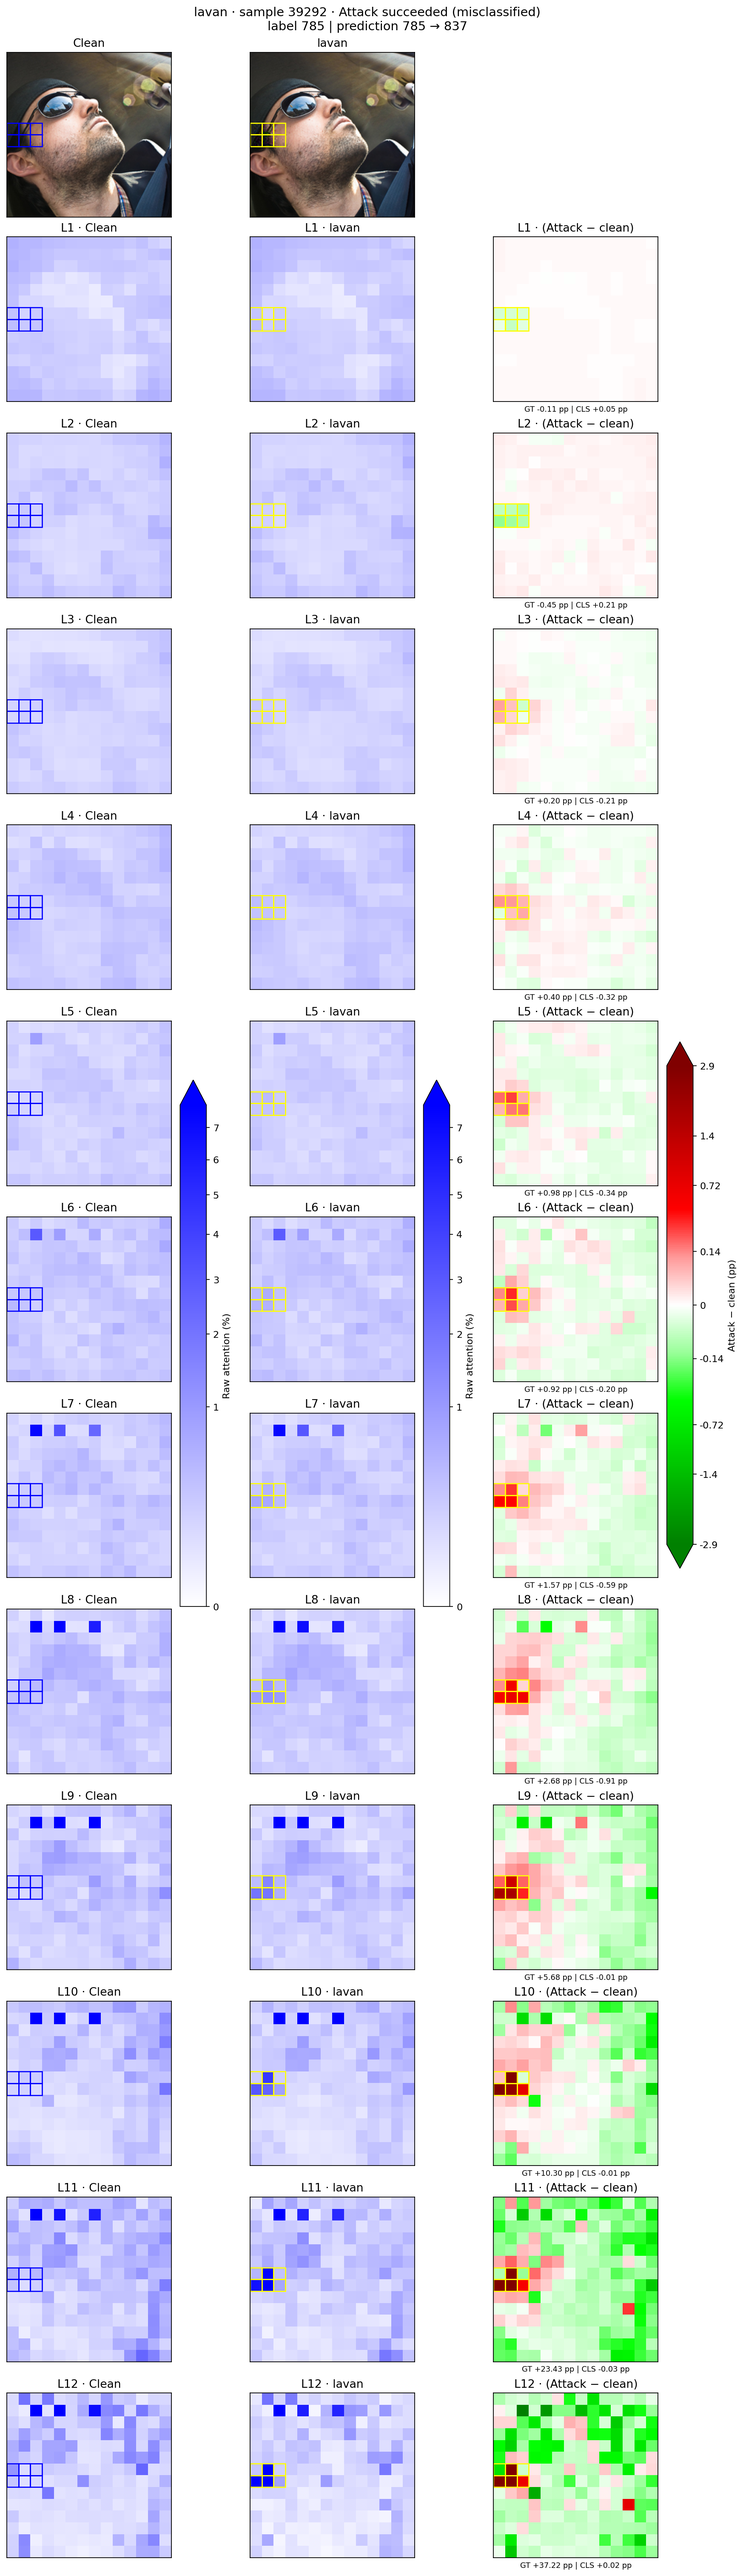
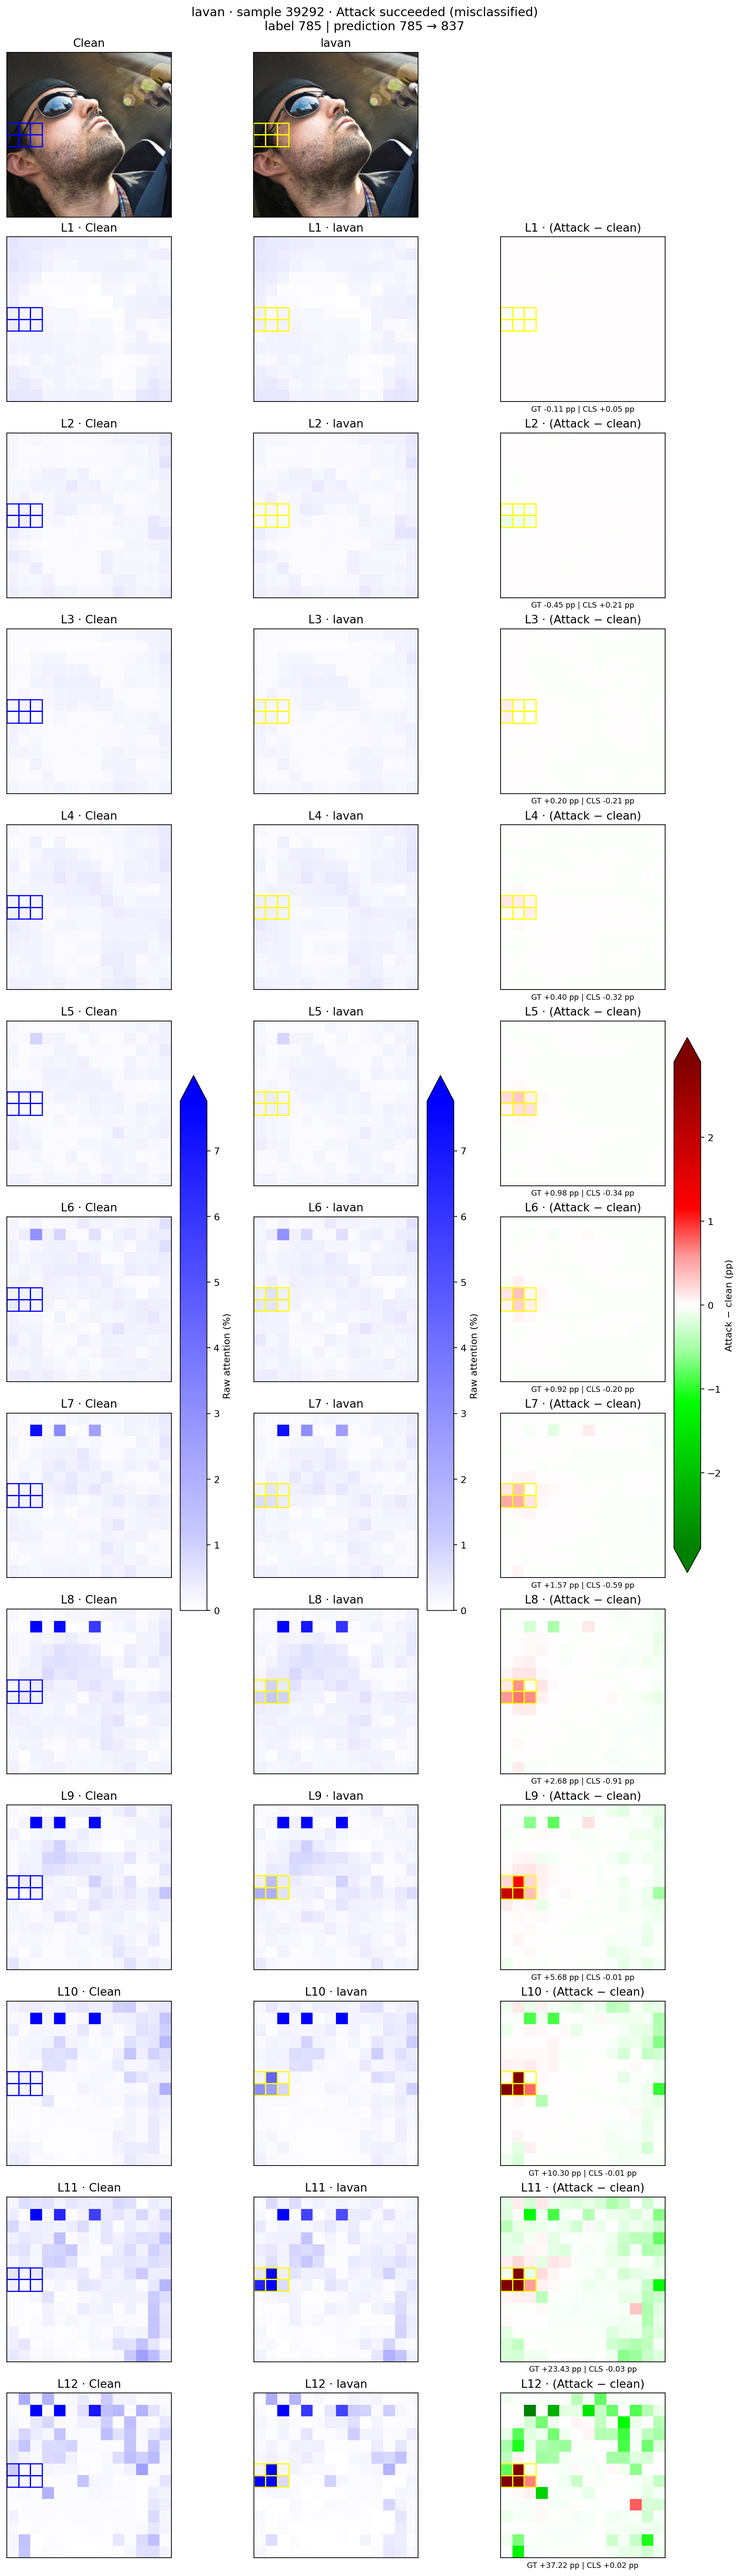
Linear colorbars with uniform ticks; small-value visibility moved into the color ramps

diff --git a/01_patch_attack_detector/experiments/characterization/02_compare_attention_success_failure.py b/01_patch_attack_detector/experiments/characterization/02_compare_attention_success_failure.py
@@ -15,7 +15,7 @@ import numpy as np
 import matplotlib
 matplotlib.use('Agg')
 import matplotlib.pyplot as plt
-from matplotlib.colors import LinearSegmentedColormap, Normalize, PowerNorm
+from matplotlib.colors import LinearSegmentedColormap, Normalize
 
 HERE = Path(__file__).resolve().parent
 sys.path.insert(0, str(HERE.parents[1] / 'ground_truth'))   # for `import draw_boxes`
@@ -30,29 +30,13 @@ OUTCOMES = {'attack_success': (1, 'Attack succeeded (misclassified)'),
 OUTCOME_COLORS = {'attack_success': '#d03b3b', 'attack_fail': '#0ca30c'}
 # 양 끝이 검정으로 가면 원본/공격/차이가 다 어두워져서 구분이 안 된다 -- 끝 색을 원색으로 둔다.
 # raw attention: 흰색 -> 순수 파랑. 차이: 감소=연초록->밝은 초록->진한 초록(#008000), 0=흰색, 증가(attention이 더 몰림)=순수 빨강.
-SEQUENTIAL = LinearSegmentedColormap.from_list('white_blue', ['#ffffff', '#0000ff'])
+SEQUENTIAL = LinearSegmentedColormap.from_list('white_blue', [(0.0, '#ffffff'), (0.15, '#c8c8ff'), (1.0, '#0000ff')])
 # 0은 흰색. 흰색에서 바로 연한 초록/연한 빨강으로 건너뛴 뒤 원색으로 진해진다 -- 선형으로
-# 흰색->원색을 이으면 작은 변화가 흰색과 구분이 안 된다.
+# 흰색->원색을 이으면 작은 변화가 흰색과 구분이 안 된다. 값 스케일은 선형(눈금 간격 균일)으로 두고
+# 작은 값을 보이게 하는 건 색 램프 쪽에서 한다.
 DIVERGING = LinearSegmentedColormap.from_list('green_white_red', [
     (0.0, '#008000'), (0.3, '#00ff00'), (0.4, '#99ff99'), (0.5, '#ffffff'), (0.6, '#ff9999'), (0.7, '#ff0000'), (1.0, '#800000')])
 
-
-class SignedPowerNorm(Normalize):
-    """0을 중심으로 부호를 유지한 채 |값|^gamma로 펼친다(gamma<1이면 작은 변화도 흰색에서
-    확실히 떨어진다). 컬러바가 눈금을 되돌릴 수 있도록 inverse를 제공한다."""
-
-    def __init__(self, vmax, gamma=.5):
-        super().__init__(vmin=-vmax, vmax=vmax, clip=True)
-        self.gamma = gamma
-
-    def __call__(self, value, clip=None):
-        v = np.ma.asarray(value, dtype=float)
-        scaled = np.sign(v) * (np.clip(np.abs(v) / self.vmax, 0, 1) ** self.gamma)
-        return np.ma.masked_array(.5 + .5 * scaled, mask=np.ma.getmask(v))
-
-    def inverse(self, value):
-        s = 2 * np.asarray(value, dtype=float) - 1
-        return np.sign(s) * (np.abs(s) ** (1 / self.gamma)) * self.vmax
 METRICS = {'tv': 'Total variation', 'gt_delta': 'Attention change in GT region (pp)'}
 
 
@@ -202,8 +186,8 @@ def draw_maps(data, manifest, attack, sample_i, metrics, layers, scales, status_
     axes[0, 2].set_axis_off()
 
     mass_max, delta_max = scales
-    mass_norm = PowerNorm(gamma=.45, vmin=0, vmax=mass_max)
-    delta_norm = SignedPowerNorm(delta_max)
+    mass_norm = Normalize(vmin=0, vmax=mass_max)
+    delta_norm = Normalize(vmin=-delta_max, vmax=delta_max)
     column_image = {}
     for row, layer_i in enumerate(layers, 1):
         panels = [('clean', 'Clean'), ('attacked', attack), ('delta', '(Attack − clean)')]
@@ -227,14 +211,8 @@ def draw_maps(data, manifest, attack, sample_i, metrics, layers, scales, status_
     for column, label, extend in [(0, 'Raw attention (%)', 'max'),
                                    (1, 'Raw attention (%)', 'max'),
                                    (2, 'Attack − clean (pp)', 'both')]:
-        bar = figure.colorbar(column_image[column], ax=[axes[r, column] for r in range(n_rows)],
-                              shrink=.85, extend=extend, label=label)
-        if column == 2:
-            # 눈금을 정수(1,2,3...)로 두면 |값|^0.5 스케일 때문에 양 끝 눈금이 겹친다 -- 상한의
-            # 비율로 잡으면 스케일 위에서 간격이 고르다.
-            ticks = np.array([-1, -.5, -.25, -.05, 0, .05, .25, .5, 1]) * delta_max
-            bar.set_ticks(ticks)
-            bar.set_ticklabels([f'{v:.2g}' for v in ticks])
+        figure.colorbar(column_image[column], ax=[axes[r, column] for r in range(n_rows)],
+                        shrink=.85, extend=extend, label=label)
     label_value = int(data['label'][sample_i])
     clean_pred = int(data['clean__prediction'][sample_i])
     attacked_pred = int(data[attack + '__prediction'][sample_i])
@@ -394,7 +372,7 @@ def main():
         'attacked/difference panels.\n'
         '- Raw attention: white -> pure blue. Attack-minus-clean: pure green (attention lost) -> '
         'white (no change) -> pure red (attention concentrated more). Ends are pure colors so panels stay '
-        'distinguishable at the extremes; small changes are stretched (signed power scale) so they stay visibly off-white. Both '
+        'distinguishable at the extremes; the color ramps jump quickly off white so small values stay visible, while the colorbars are linear with evenly spaced ticks. Both '
         'use a 99.5th-percentile cap (not the true max) shared across every block of a given '
         'attack, so a single extreme sample or patch can\'t blank out the rest, while the real '
         'block-to-block story (near-zero early on, then increasingly concentrated) still shows. '

diff --git a/01_patch_attack_detector/results/characterization/README.md b/01_patch_attack_detector/results/characterization/README.md
@@ -4,7 +4,7 @@ Generated from run `/home/jooyumm/ViT_robust/01_patch_attack_detector/results/ch
 
 - One folder per attack (`patchfool/`, `lavan/`), no outcome subfolders — the outcome is in the filename instead: `ex_attack_success_*` (attack succeeded, image misclassified) vs. `ex_attack_fail_*` (attack failed, image still correct). These names describe the ATTACK's outcome, not a pipeline failure.
 - Maps show CLS-query attention to each patch key, head-averaged, CLS key mass kept (not renormalized away). GT patches (any pixel actually changed) are outlined with ground_truth/draw_boxes.py's colors, reused directly: blue on Clean panels, yellow on attacked/difference panels.
-- Raw attention: white -> pure blue. Attack-minus-clean: pure green (attention lost) -> white (no change) -> pure red (attention concentrated more). Ends are pure colors so panels stay distinguishable at the extremes; small changes are stretched (signed power scale) so they stay visibly off-white. Both use a 99.5th-percentile cap (not the true max) shared across every block of a given attack, so a single extreme sample or patch can't blank out the rest, while the real block-to-block story (near-zero early on, then increasingly concentrated) still shows. Values above the cap are drawn at the top color, marked by the colorbar's arrow, not silently redrawn.
+- Raw attention: white -> pure blue. Attack-minus-clean: pure green (attention lost) -> white (no change) -> pure red (attention concentrated more). Ends are pure colors so panels stay distinguishable at the extremes; the color ramps jump quickly off white so small values stay visible, while the colorbars are linear with evenly spaced ticks. Both use a 99.5th-percentile cap (not the true max) shared across every block of a given attack, so a single extreme sample or patch can't blank out the rest, while the real block-to-block story (near-zero early on, then increasingly concentrated) still shows. Values above the cap are drawn at the top color, marked by the colorbar's arrow, not silently redrawn.
 - GT Δ: attention change summed over GT patches (raw, not renormalized). TV: 0.5 × sum(|attack - clean|) over all 197 tokens including CLS.
 - The layer table uses the *median* over all clean-correct samples; flagged blocks (⚠) are exploratory candidates by descriptive statistics, not a significance test or causal claim.
 - No CSVs here by design — the table above is the numeric result worth keeping. Per-sample/per-head raw numbers are recomputable from `/home/jooyumm/ViT_robust/01_patch_attack_detector/results/characterization/attention_comparison/run_s42/data/` with `compute_metrics()` in this folder's script if ever needed.
